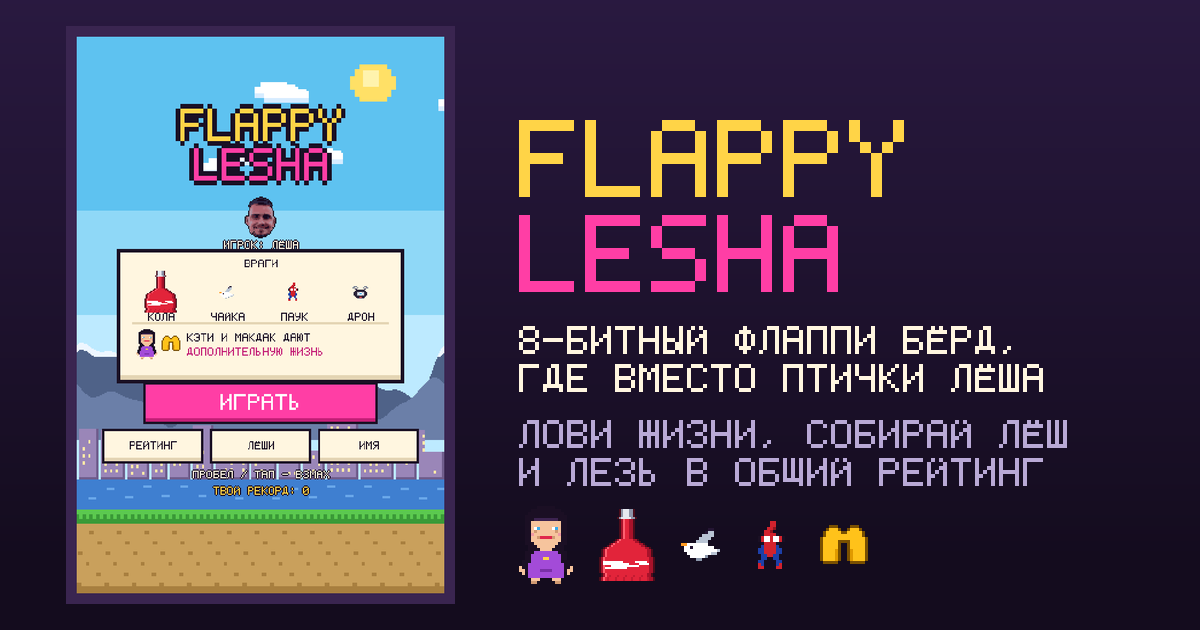
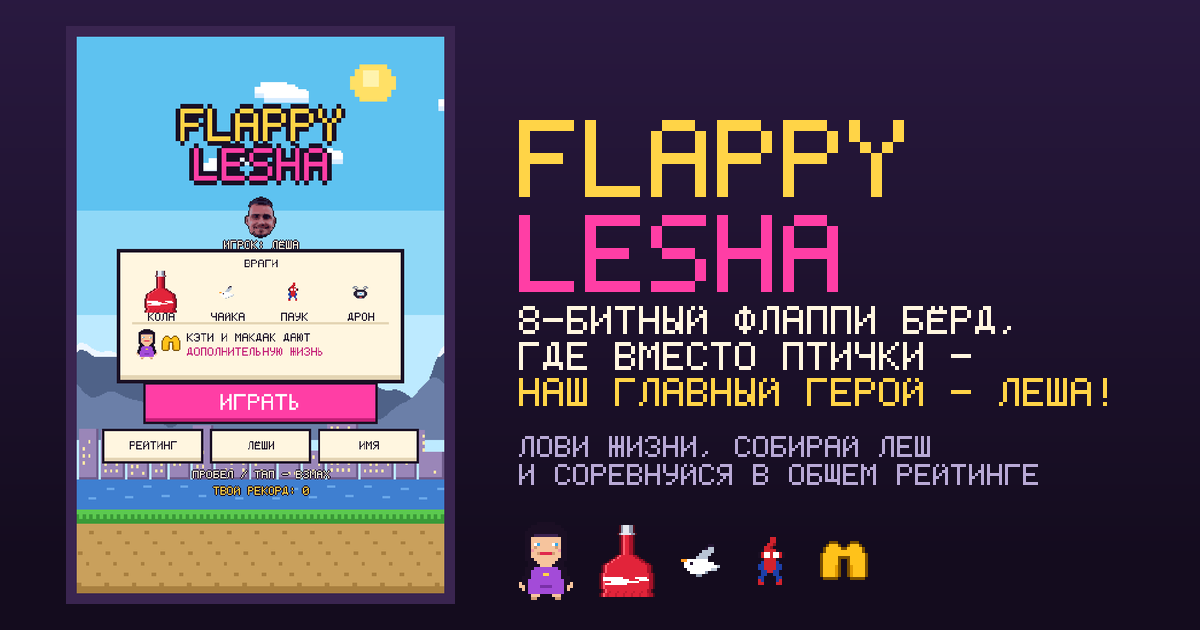
Use the author's wording on the preview card
"Где вместо птички - наш главный герой - Леша!" now leads the card, picked out
in gold, and the line under it reads "Лови жизни, собирай Леш и соревнуйся в
общем рейтинге". The meta and og descriptions say the same thing.

Claude-Session: https://claude.ai/code/session_01XW6BYSZqDpLMGQiBQsJifR

Changed region(s): [[0.4317, 0.4825, 0.925, 0.7841], [0.4317, 0.8143, 0.74, 0.9651]]

diff --git a/index.html b/index.html
@@ -4,14 +4,14 @@
 <meta charset="utf-8">
 <meta name="viewport" content="width=device-width, initial-scale=1, viewport-fit=cover, user-scalable=no">
 <meta name="theme-color" content="#140c1e">
-<meta name="description" content="8-битный флаппи-бёрд, где вместо птички — Лёша. Уворачивайся от бутылок колы, лови жизни, собирай Лёш и лезь в общий рейтинг.">
+<meta name="description" content="8-битный флаппи-бёрд, где вместо птички — наш главный герой Леша! Лови жизни, собирай Леш и соревнуйся в общем рейтинге.">
 
 <!-- Link previews in chats: Telegram and friends read these. -->
 <link rel="canonical" href="https://flappylesha.ru/">
 <meta property="og:type" content="website">
 <meta property="og:site_name" content="Flappy Lesha">
 <meta property="og:title" content="Flappy Lesha">
-<meta property="og:description" content="8-битный флаппи-бёрд, где вместо птички — Лёша. Уворачивайся от бутылок колы, лови жизни и собирай Лёш.">
+<meta property="og:description" content="8-битный флаппи-бёрд, где вместо птички — наш главный герой Леша! Лови жизни, собирай Леш и соревнуйся в общем рейтинге.">
 <meta property="og:url" content="https://flappylesha.ru/">
 <meta property="og:image" content="https://flappylesha.ru/assets/preview.png">
 <meta property="og:image:type" content="image/png">
@@ -20,7 +20,7 @@
 <meta property="og:image:alt" content="Титульный экран Flappy Lesha">
 <meta name="twitter:card" content="summary_large_image">
 <meta name="twitter:title" content="Flappy Lesha">
-<meta name="twitter:description" content="8-битный флаппи-бёрд, где вместо птички — Лёша. Уворачивайся от бутылок колы, лови жизни и собирай Лёш.">
+<meta name="twitter:description" content="8-битный флаппи-бёрд, где вместо птички — наш главный герой Леша! Лови жизни, собирай Леш и соревнуйся в общем рейтинге.">
 <meta name="twitter:image" content="https://flappylesha.ru/assets/preview.png">
 <meta name="mobile-web-app-capable" content="yes">
 <meta name="apple-mobile-web-app-capable" content="yes">

diff --git a/tools/make_preview.py b/tools/make_preview.py
@@ -100,19 +100,20 @@ def main():
     draw_text(card, glyphs, "lesha", left, 215, 11, (255, 62, 165))
 
     lines = [
-        ("8-БИТНЫЙ ФЛАППИ БЁРД,", (255, 246, 224)),
-        ("ГДЕ ВМЕСТО ПТИЧКИ ЛЁША", (255, 246, 224)),
-        ("ЛОВИ ЖИЗНИ, СОБИРАЙ ЛЁШ", (185, 169, 214)),
-        ("И ЛЕЗЬ В ОБЩИЙ РЕЙТИНГ", (185, 169, 214)),
+        ("8-БИТНЫЙ ФЛАППИ БЁРД,", (255, 246, 224), 4),
+        ("ГДЕ ВМЕСТО ПТИЧКИ -", (255, 246, 224), 4),
+        ("НАШ ГЛАВНЫЙ ГЕРОЙ - ЛЕША!", (255, 212, 71), 4),
+        ("ЛОВИ ЖИЗНИ, СОБИРАЙ ЛЕШ", (185, 169, 214), 3),
+        ("И СОРЕВНУЙСЯ В ОБЩЕМ РЕЙТИНГЕ", (185, 169, 214), 3),
     ]
-    y = 326
-    for i, (text, color) in enumerate(lines):
-        if i == 2:
-            y += 18                                      # a beat between the two pairs
-        draw_text(card, glyphs, text, left, y, 4, color)
-        y += 38
+    y = 306
+    for i, (text, color, scale) in enumerate(lines):
+        if i == 3:
+            y += 22                                      # a beat before the second pair
+        draw_text(card, glyphs, text, left, y, scale, color)
+        y += 36 if scale == 4 else 28
 
-    row_y = 500
+    row_y = 516
     x = left
     for name, scale in (("katy", 3), ("colaCap", 2), ("gullUp", 3), ("spider", 3), ("mac", 3)):
         sp = sprite_image(sprites, name, scale)
